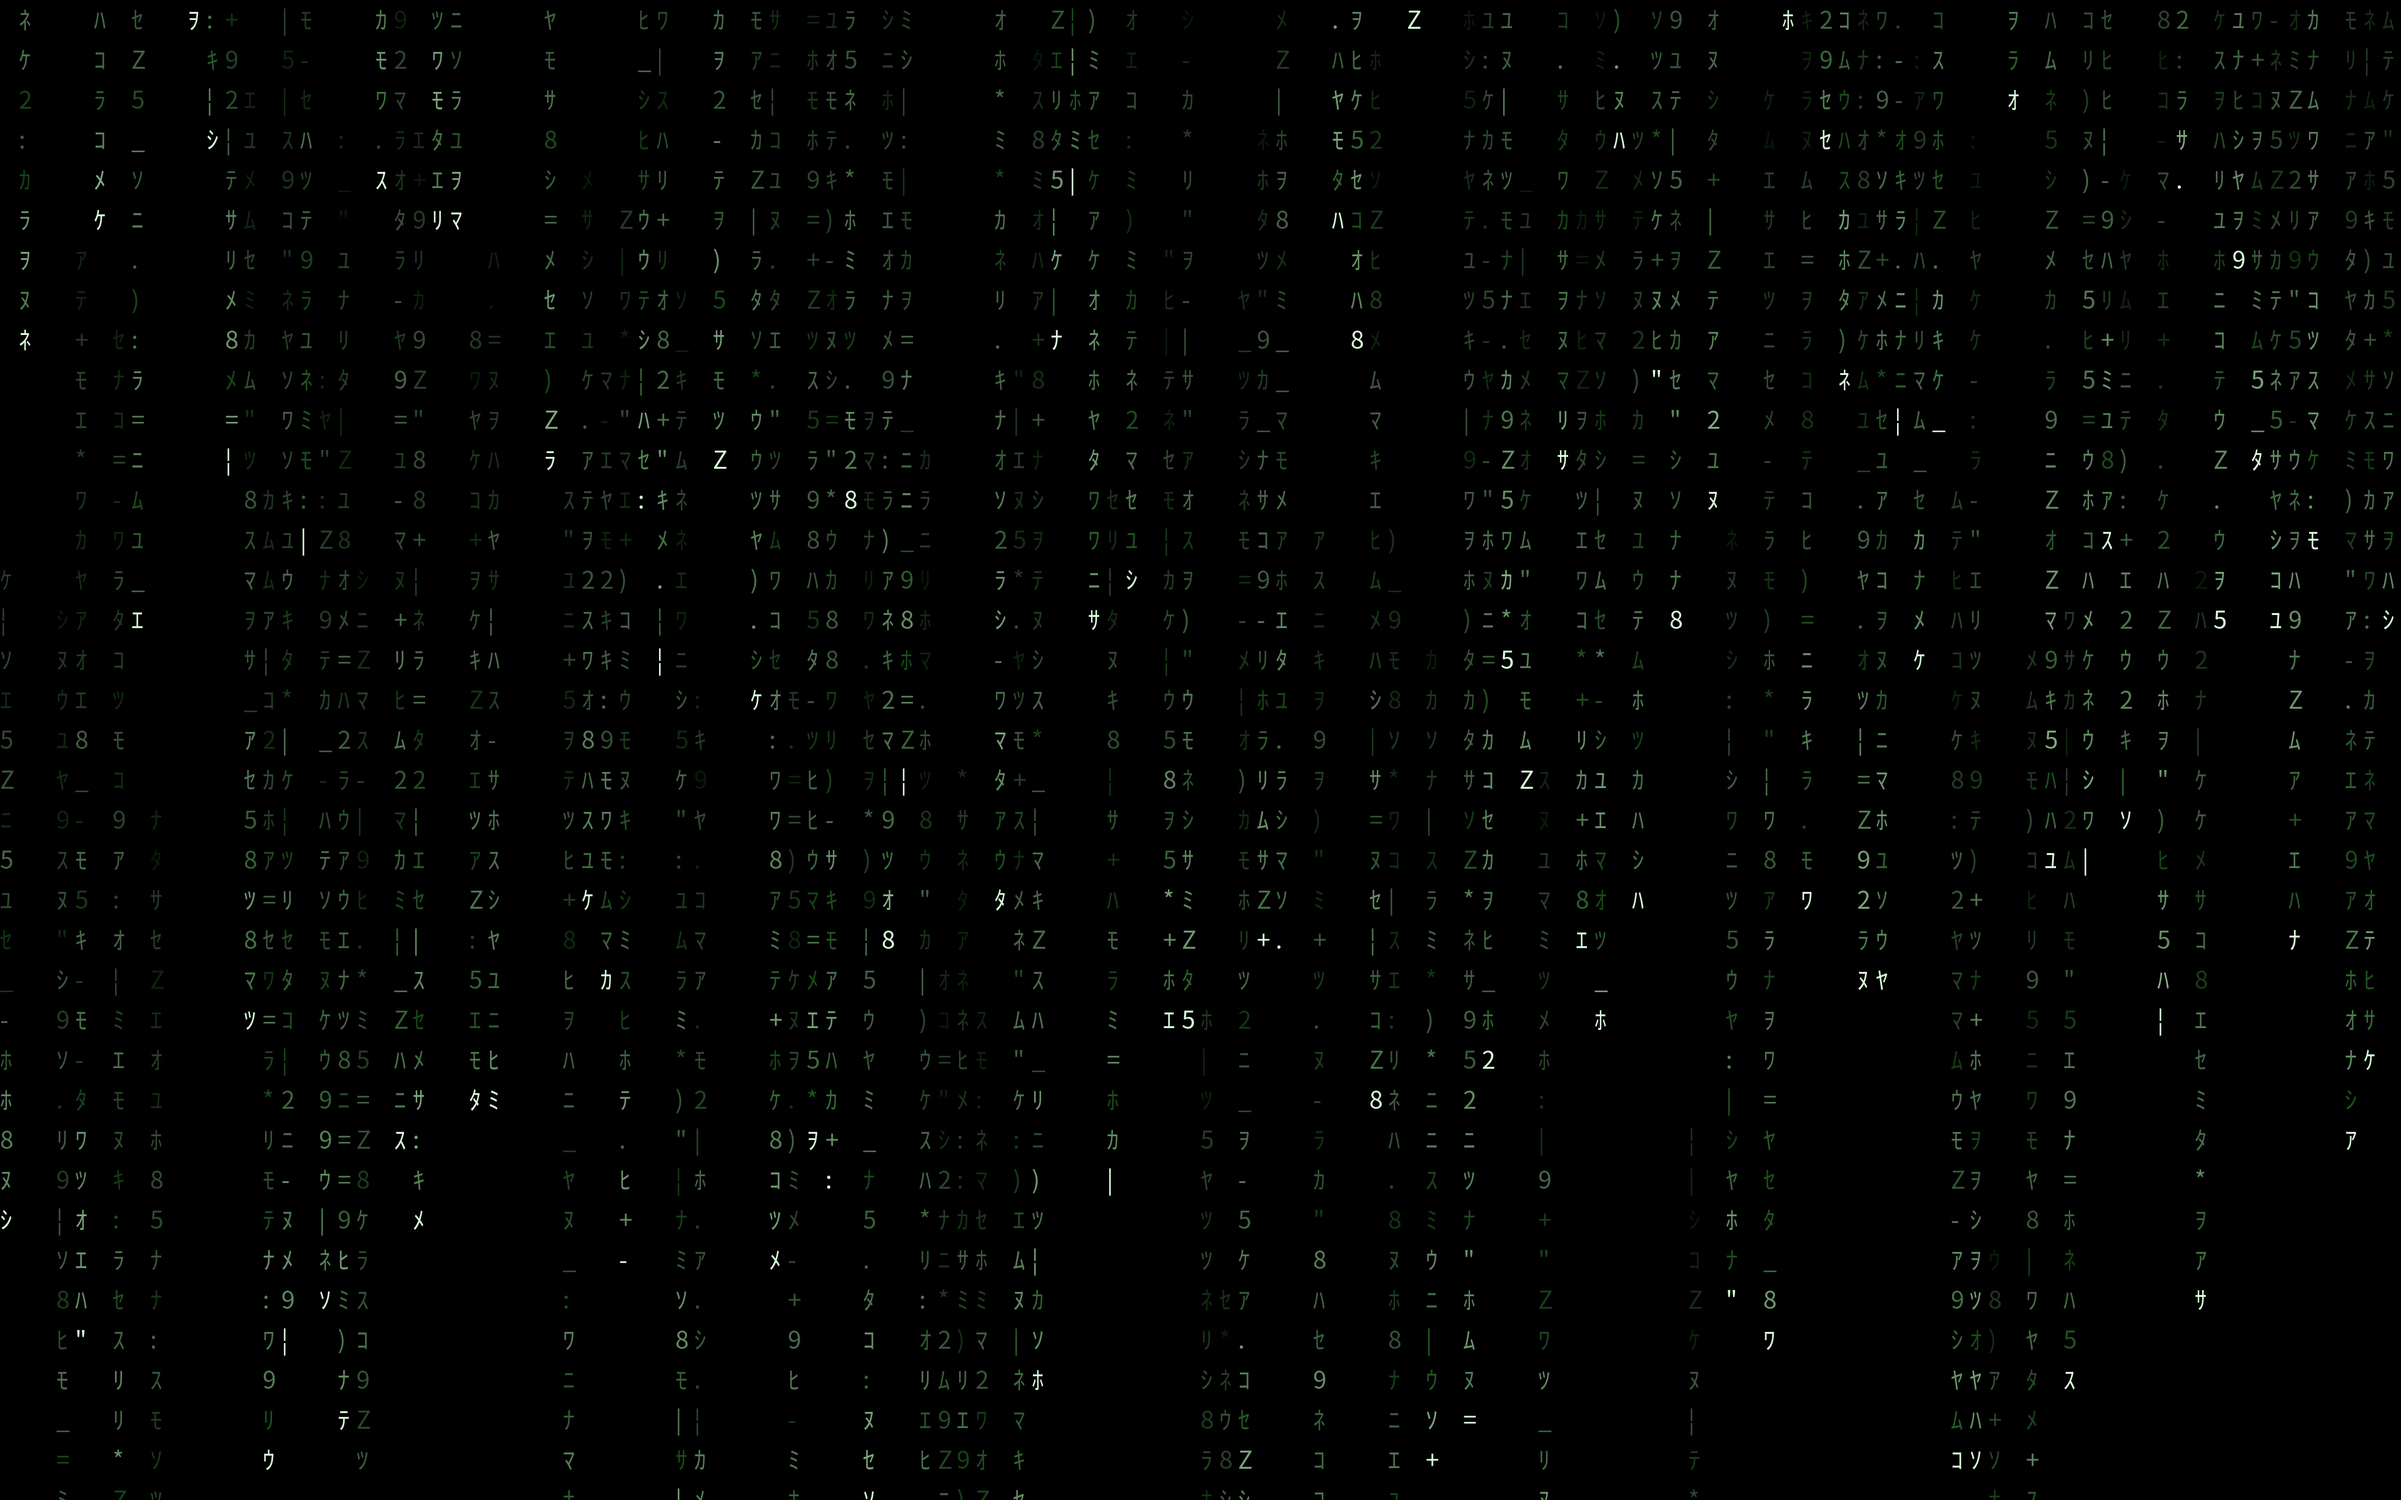
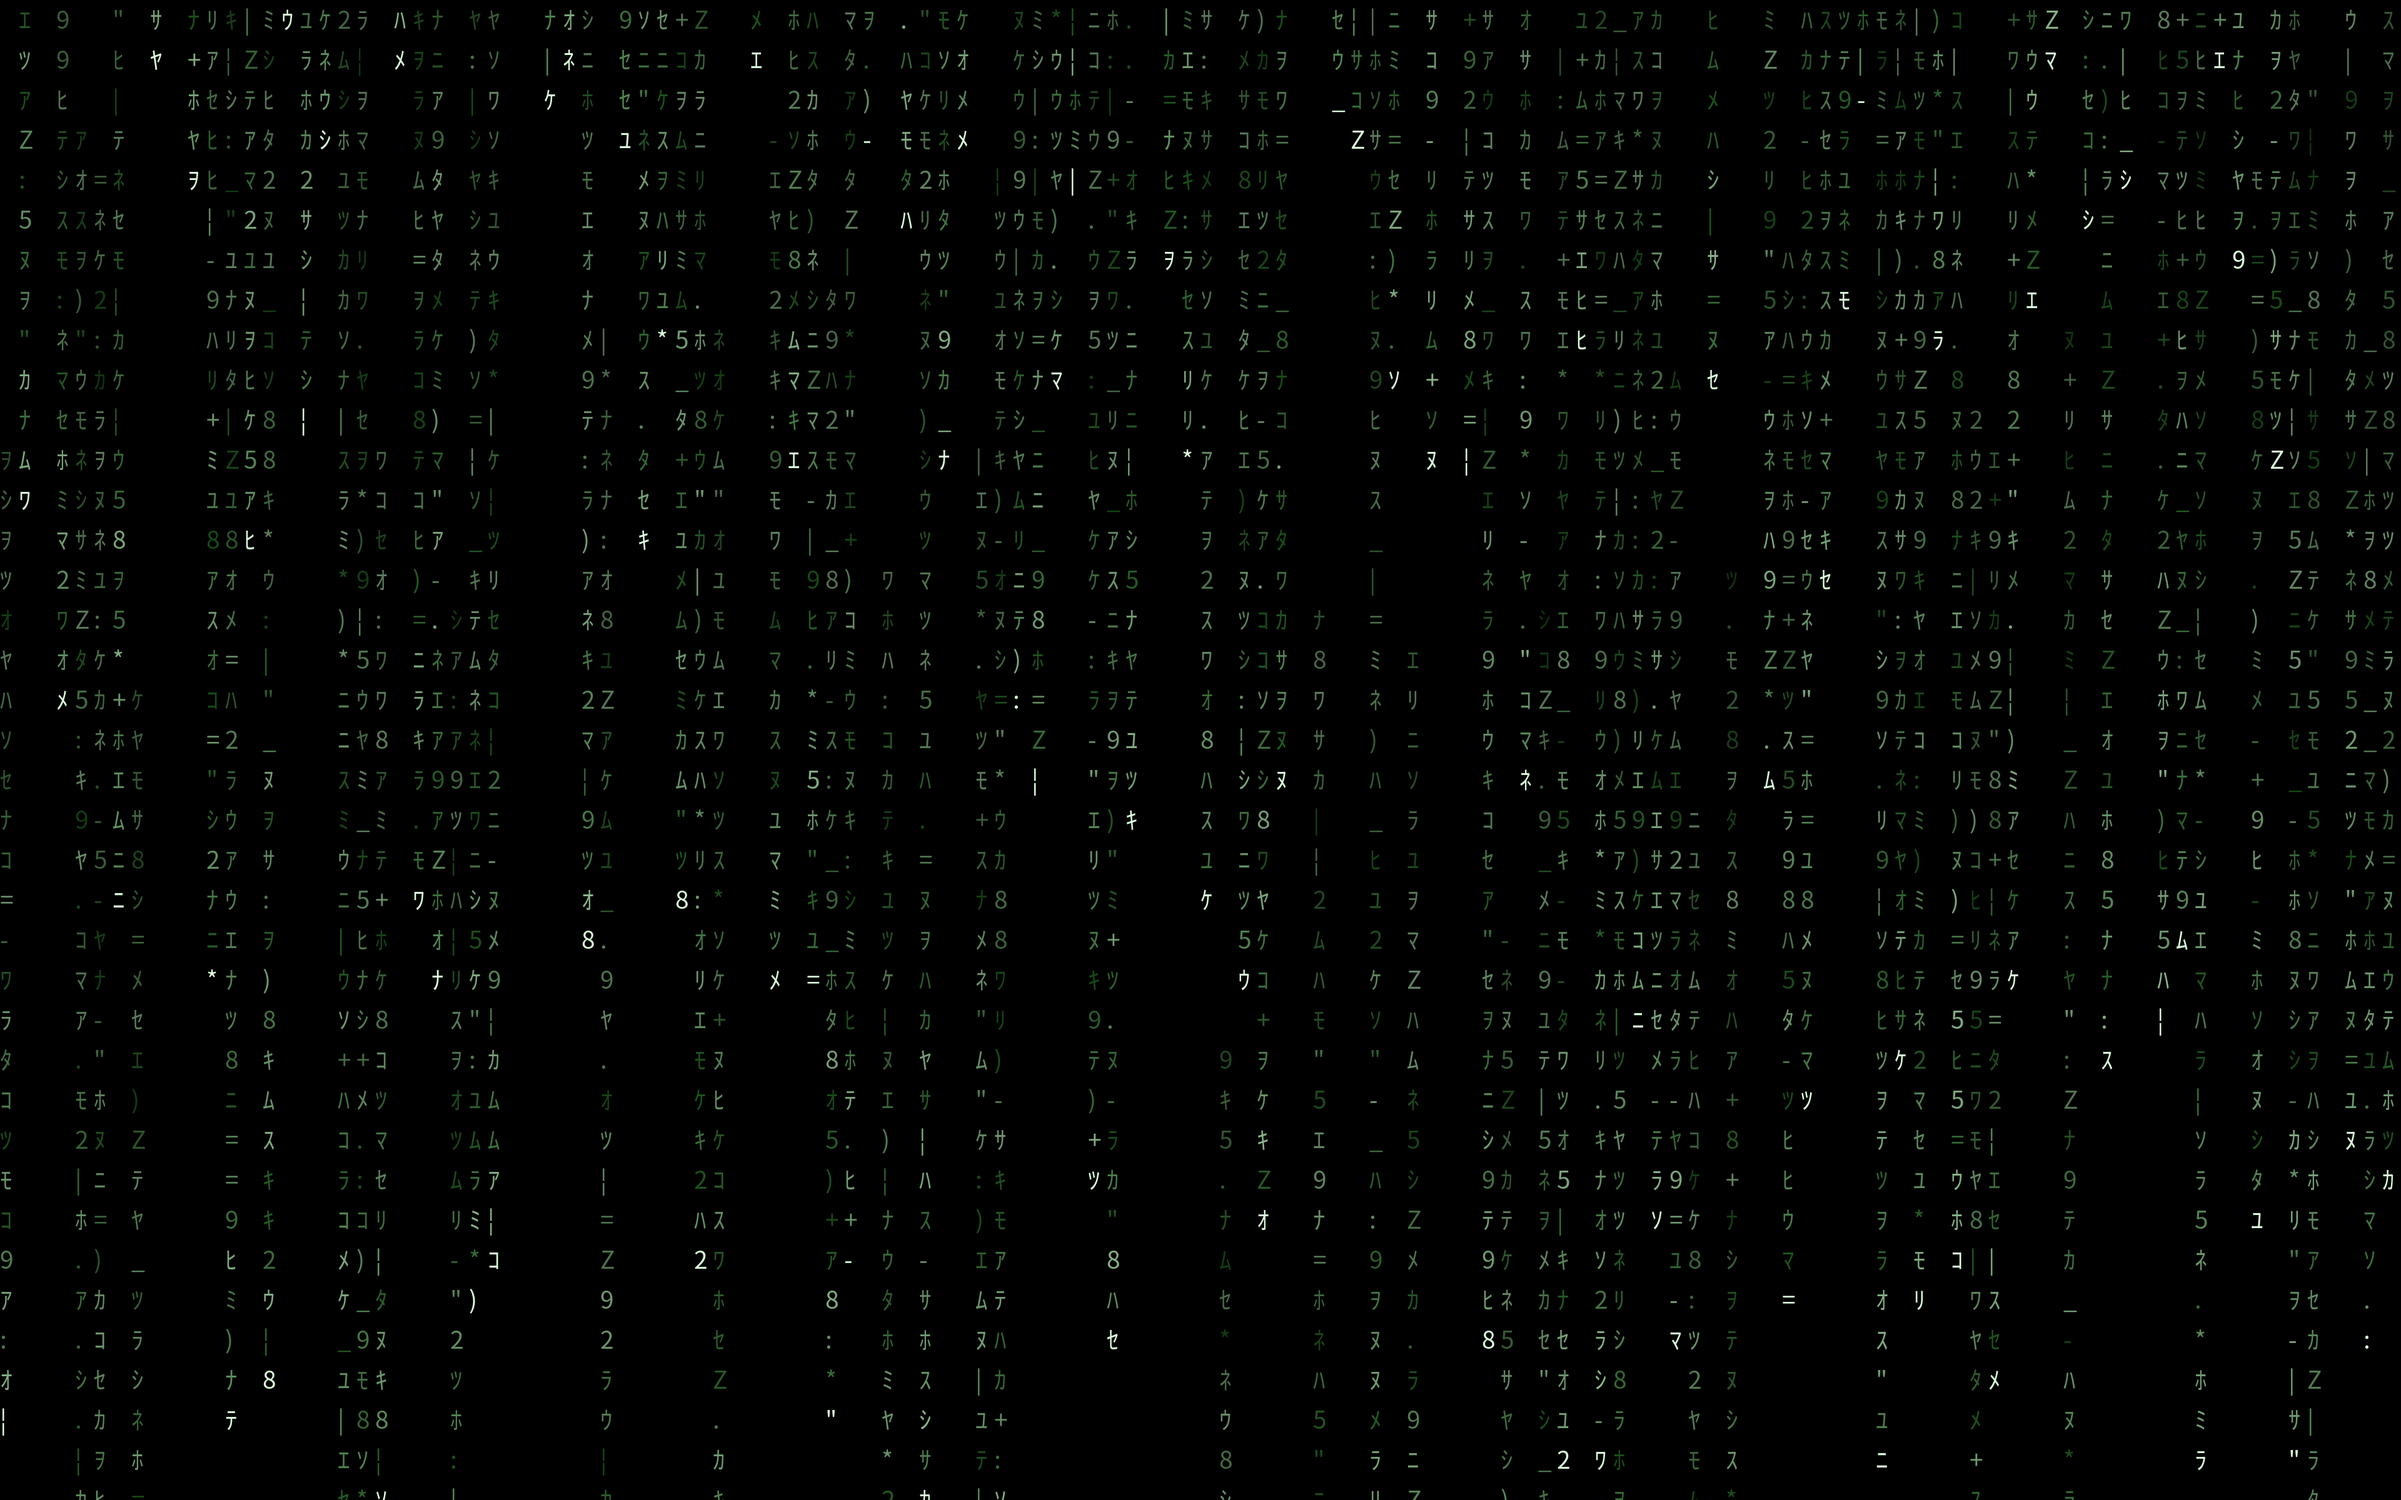
La lluvia no se parecia al screensaver: era el atlas, aplastado
Medido contra una captura del screensaver real, mismo recorte: la rejilla ya
cuadraba (29 vs 30 px de columna, 64 vs 64 de fila) pero el brillo medio era 1.4
contra 5.2. No era cuestion de color.

La causa: la celda del atlas era 48x64 (relacion 0.75) y el shader la mete en una
celda de 30x64 (0.47). Los glifos entraban aplastados de ancho, y por tanto con
el trazo mas fino y mucho mas apagados. El atlas pasa a 60x128, que es la misma
relacion que la celda del shader; el doble de resolucion es solo para que no
pixele al escalar.

Con eso el brillo sube a 2.8. El resto de la diferencia es de modelo, no un
fallo: ttfx no apaga nunca los caracteres, asi que su pantalla acaba llena al
100%, mientras que aqui los regueros tienen final -- que es justo lo que deja ver
que caen. Subiendo el suelo de la estela de 0.30 a 0.62 y alargando los regueros
(22-48 filas en vez de 16-38) queda en 3.4, que a ojo ya es el mismo campo.
Igualar el 5.2 exacto pedia quitar el desvanecido, y entonces vuelve a parecer
una foto.

generar-fondos.py va con los mismos numeros, para que la miniatura del carrusel
siga siendo un fotograma del shader y no otra cosa.

diff --git a/generar-fondos.py b/generar-fondos.py
@@ -66,10 +66,10 @@ def reguero(draw, cx, cabeza, largo, size, escala_y, atenuar=1.0):
         if i == 0:
             color = mezcla((0, 0, 0), CABEZA, atenuar)
         else:
-            # mix(1.0, 0.30, t**0.75) del shader: la estela se apaga pero no
+            # mix(1.0, 0.62, t**0.75) del shader: la estela se apaga pero no
             # desaparece, que es como se comporta ttfx.
             t = i / max(largo - 1, 1)
-            brillo = 1.0 - 0.70 * (t ** 0.75)
+            brillo = 1.0 - 0.38 * (t ** 0.75)
             color = mezcla((0, 0, 0),
                            mezcla(LLUVIA_A, LLUVIA_B, random.random()),
                            brillo * atenuar)
@@ -102,7 +102,7 @@ def construir(semilla, densidad, escala, salida, minimo=False):
             largo = random.randint(10, 24)
         else:
             cabeza = random.randint(0, filas + 12)
-            largo = random.randint(16, 38)
+            largo = random.randint(22, 48)
         reguero(draw, cx, cabeza, largo, size, escala_y,
                 atenuar=0.85 if minimo else 1.0)
 

diff --git a/lluvia/generar-atlas.py b/lluvia/generar-atlas.py
@@ -5,8 +5,8 @@ Los simbolos son exactamente los de `ttfx matrix --rain-symbols`, el efecto que
 corre en el screensaver de Omarchy: katakana de MEDIA anchura mas unos signos
 ASCII. Van blancos sobre transparente; el shader los tine.
 
-Rejilla de 8x7 celdas de 48x64 px. Esa relacion imita la del terminal, donde la
-fila es bastante mas alta que la columna.
+Rejilla de 8x7 celdas de 60x128 px: la misma relacion que la celda del shader
+(alta y estrecha, como la del terminal).
 """
 import os
 import subprocess
@@ -21,9 +21,14 @@ SIMBOLOS = [
 ]
 
 COLS, FILAS = 8, 7
-CW, CH = 48, 64
+# La celda del atlas tiene que tener la MISMA relacion que la celda que dibuja
+# el shader (cellW = cellH * 0.47). Estaba a 48x64 (0.75) y el shader la metia
+# en 30x64: los glifos salian aplastados de ancho, y por tanto mas finos y mas
+# apagados que en el screensaver de verdad. 60x128 es 0.469, que si cuadra; el
+# doble de resolucion es solo para que no pixele al escalar.
+CW, CH = 60, 128
 FUENTE = "Noto-Sans-CJK-JP"
-CUERPO = 44
+CUERPO = 84
 
 
 def celda(simbolo):
